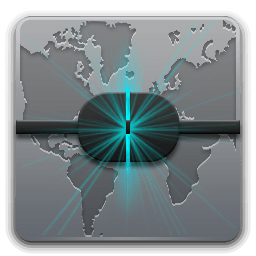
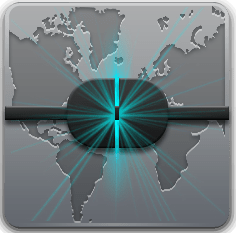
Update box

diff --git a/Src/Mediatoy/Mediatoy/bin/Release/rounded.html b/Src/Mediatoy/Mediatoy/bin/Release/rounded.html
@@ -3,16 +3,20 @@
 <head>
 <meta name="viewport" content="width=device-width, initial-scale=1">
 <style>
+  body {
+    margin: 0;
+    padding: 0;
+  }
 img {
-  border-radius: 50%;
+  border-radius: 50px;
+  width: 256px;
+  height: 256px;
 }
 </style>
 </head>
 <body>
 
-<h2>Rounded Images</h2>
-
-<img src="img_avatar.png" alt="Avatar" style="width:200px">
+<img src="primevideo.jpg">
 
 </body>
 </html> 

diff --git a/Src/Mediatoy/Mediatoy/Form1.cs b/Src/Mediatoy/Mediatoy/Form1.cs
@@ -457,7 +457,7 @@ namespace Mediatoy
                 picturebox.Location = new Point((cx - picturebox.Size.Width * 8) * (lx + 1) / 9 + picturebox.Size.Width * lx, (cy - picturebox.Size.Height * 5) * (ly + 1) / 6 + picturebox.Size.Height * ly);
                 Rectangle r = new Rectangle(0, 0, picturebox.Width, picturebox.Height);
                 System.Drawing.Drawing2D.GraphicsPath gp = new System.Drawing.Drawing2D.GraphicsPath();
-                int d = 22;
+                int d = 50;
                 gp.AddArc(r.X, r.Y, d, d, 180, 90);
                 gp.AddArc(r.X + r.Width - d, r.Y, d, d, 270, 90);
                 gp.AddArc(r.X + r.Width - d, r.Y + r.Height - d, d, d, 0, 90);
